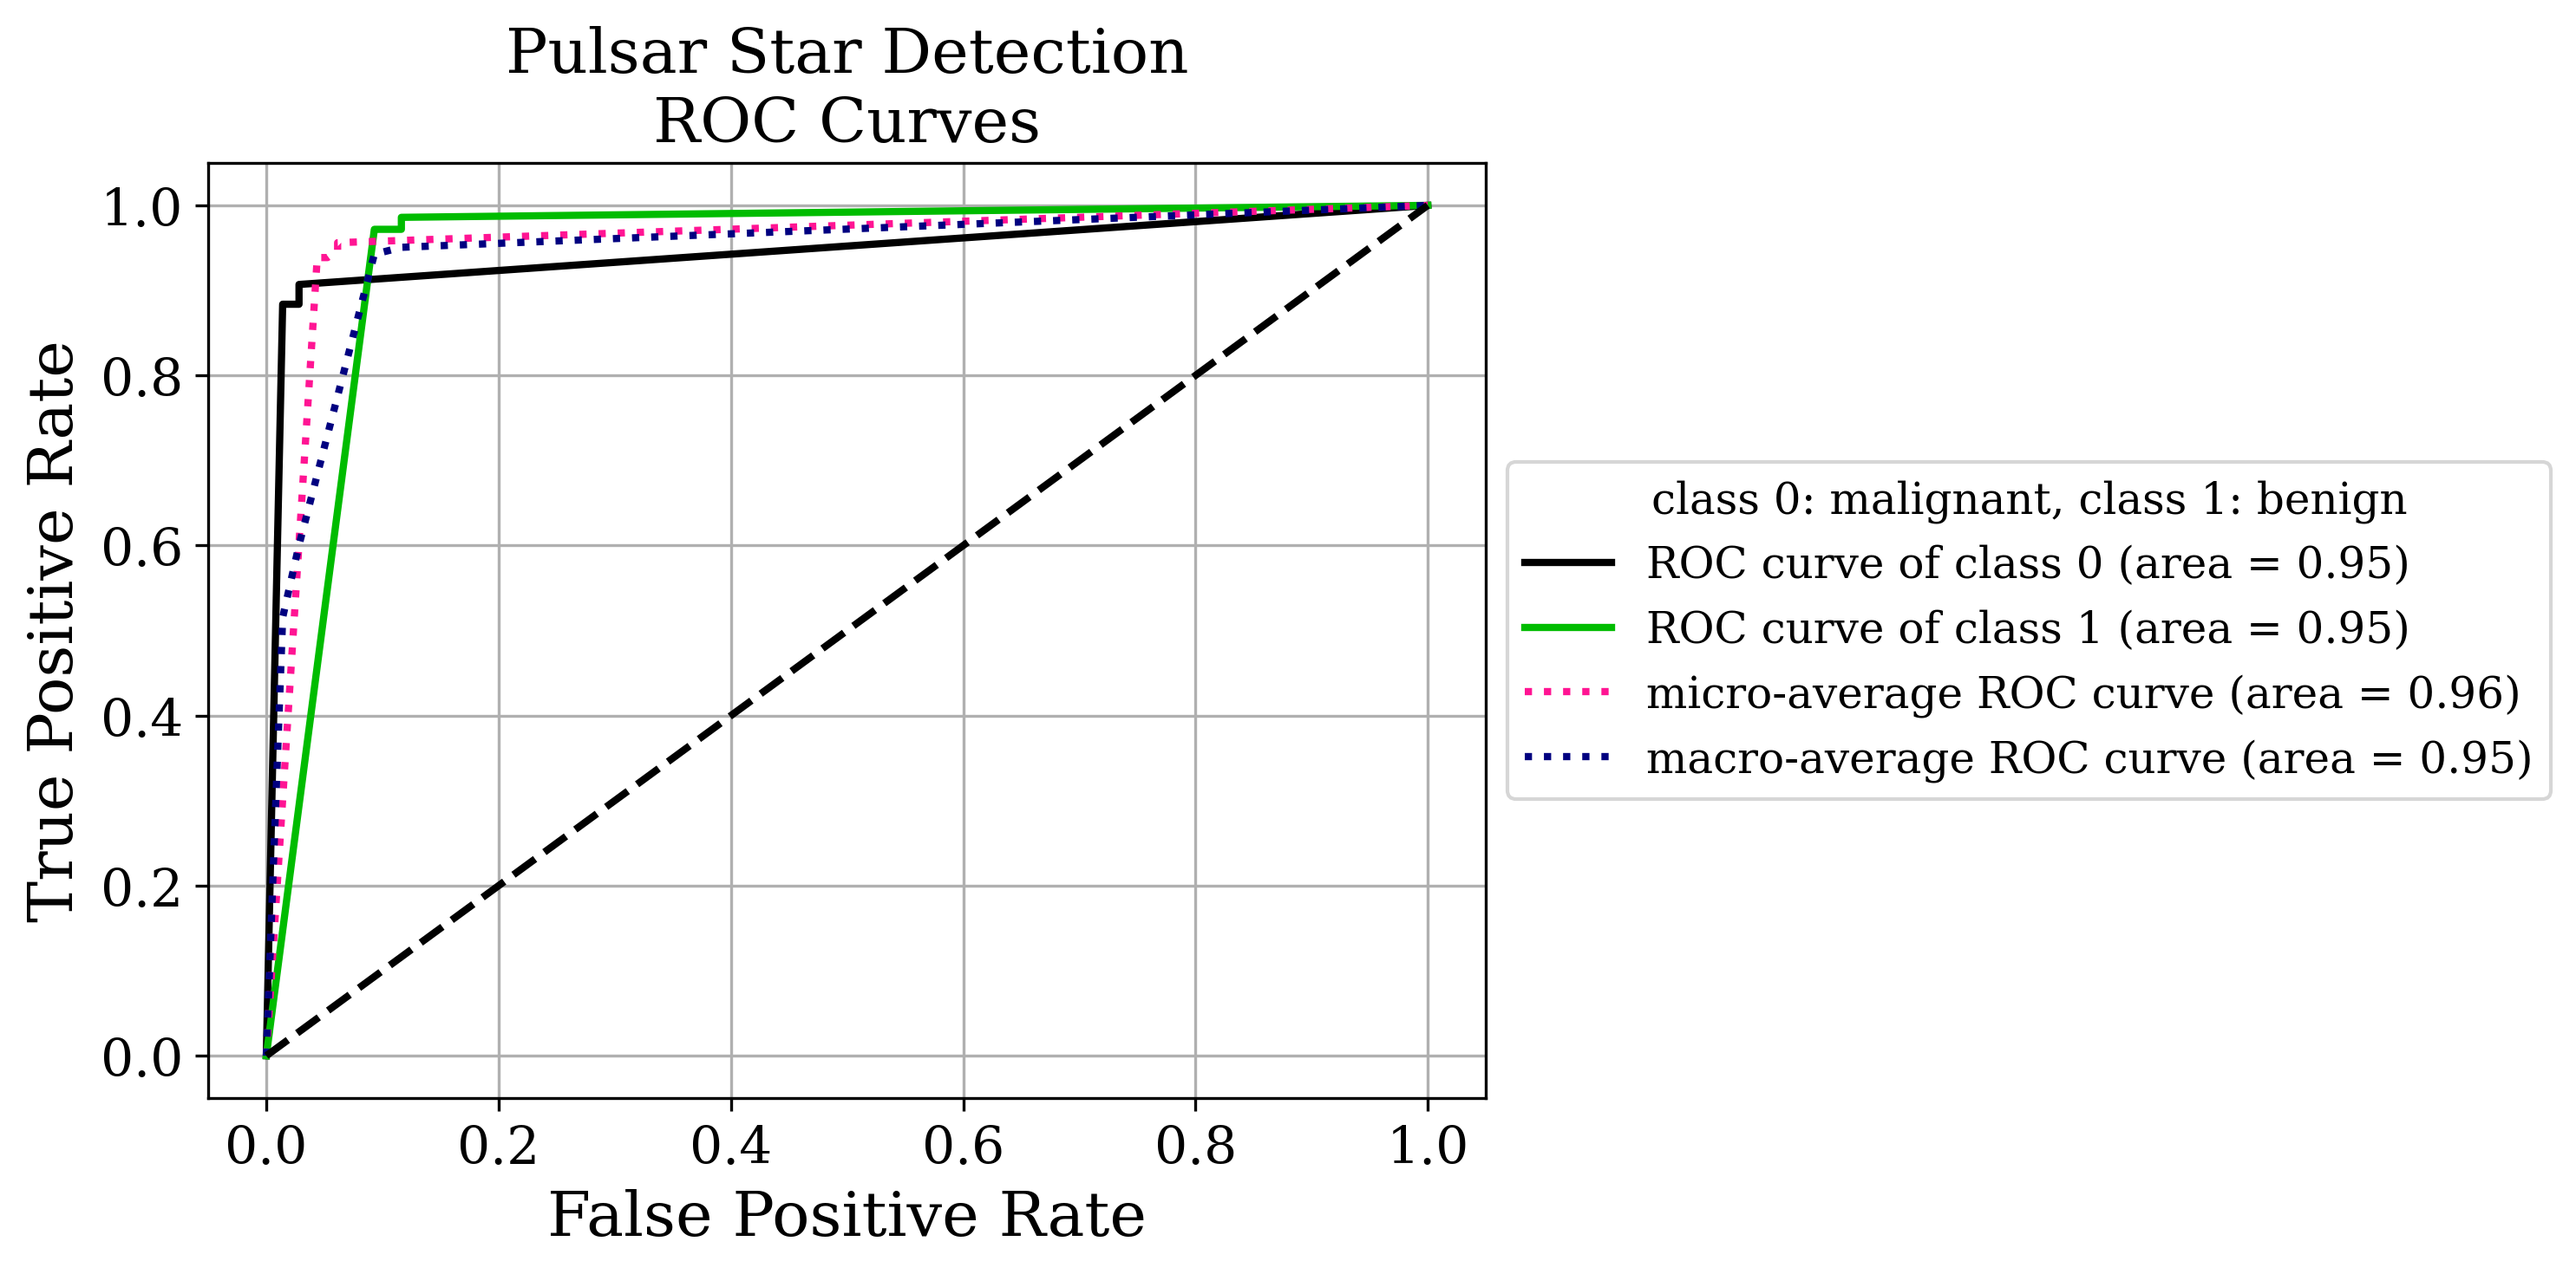
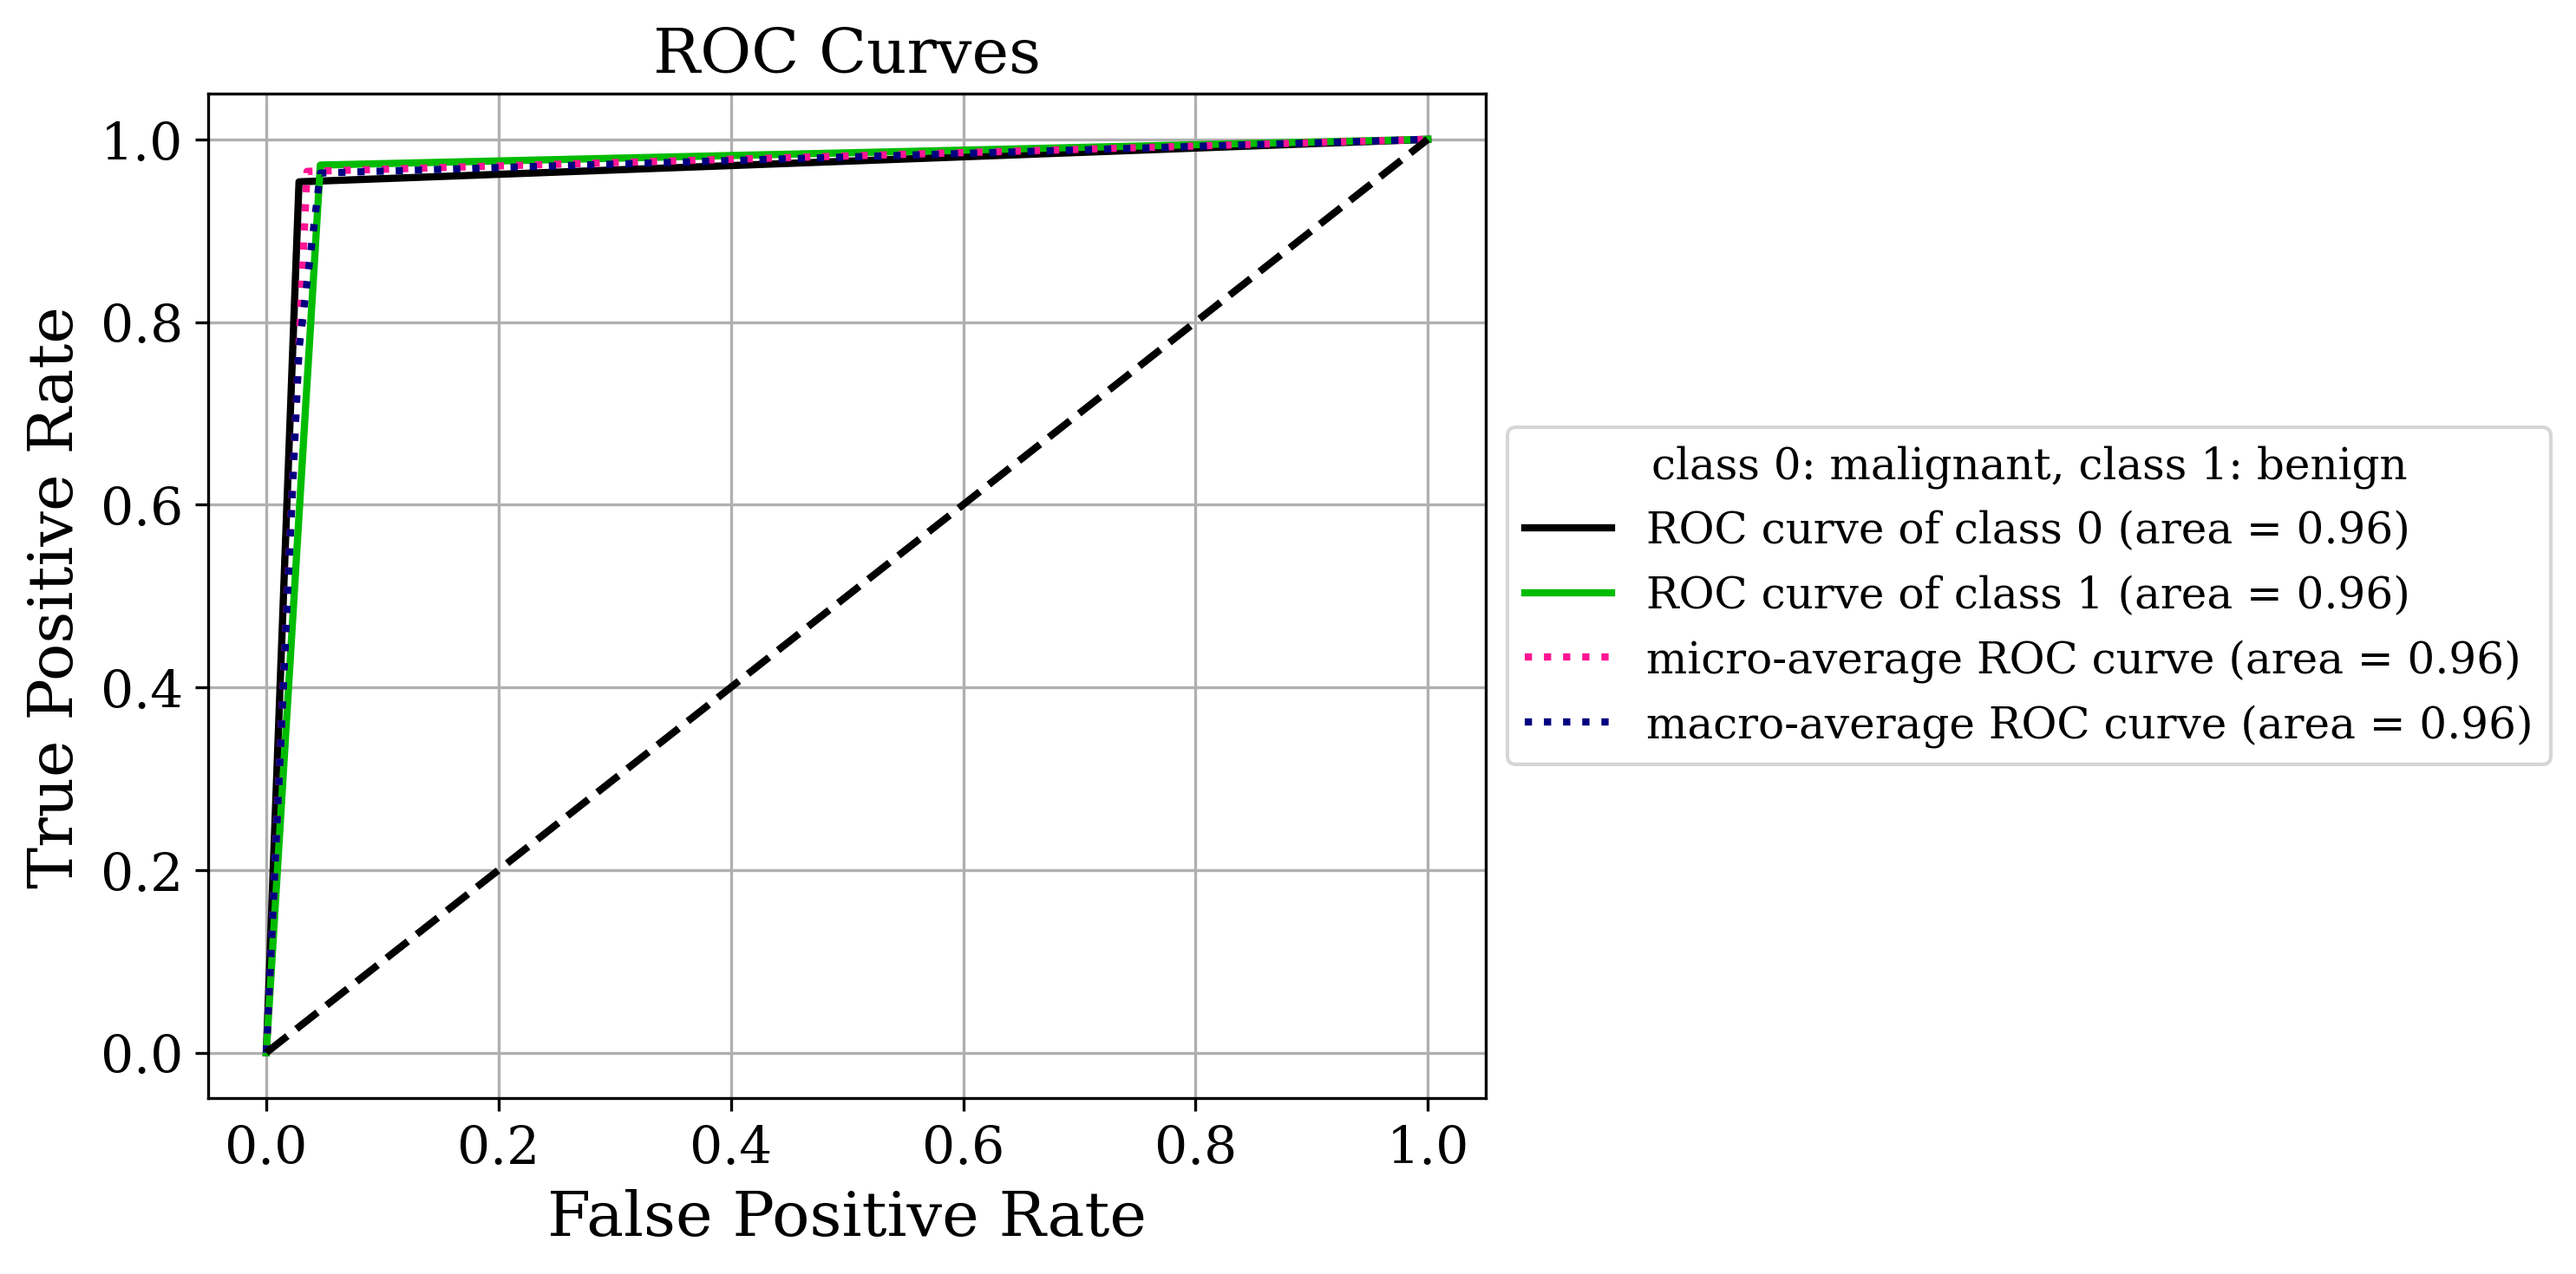
updates to wrapper post

diff --git a/_posts/2024-04-15-wrappers-for-clf-and-clust.md b/_posts/2024-04-15-wrappers-for-clf-and-clust.md
@@ -57,7 +57,6 @@ y_pred_proba = best_model.predict_proba(X_test)
 from clfutils4r.eval_classification import eval_classification
 eval_classification(y_test=y_test, y_pred=y_pred, y_pred_proba=y_pred_proba,  # ground truth labels, predicted labels, predicted probabilities
                     class_names=class_names, feature_names=feature_names,
-                    titlestr="Breast Cancer Classification",
                     make_metrics_plots=True, # make a variety of classification metrics plots
                     make_shap_plot=True, shap_nsamples=100, # do Shapley analysis for model explainability
                     show=True,  
@@ -69,7 +68,7 @@ Let's dive a bit deeper into these two convenience functions.
  
 ### `gridsearch_classification`
 
-This will produce a whole bunch of useful outputs including the best model which you can use as you choose downstream and the results of the grid search. The data is stored in neat folder structure in JSON files and is visualized with a _Parallel Co-ordinates Plot_. I find this type of plot quite useful to get a quick view of the grid search.
+This will produce a whole bunch of useful outputs including the best model and the results of the grid search. The data is stored in neat folder structure in JSON files and is visualized with a _Parallel Co-ordinates Plot_. 
 
 <div class="row mt-3">
     <div class="col-sm mt-3 mt-md-0">
